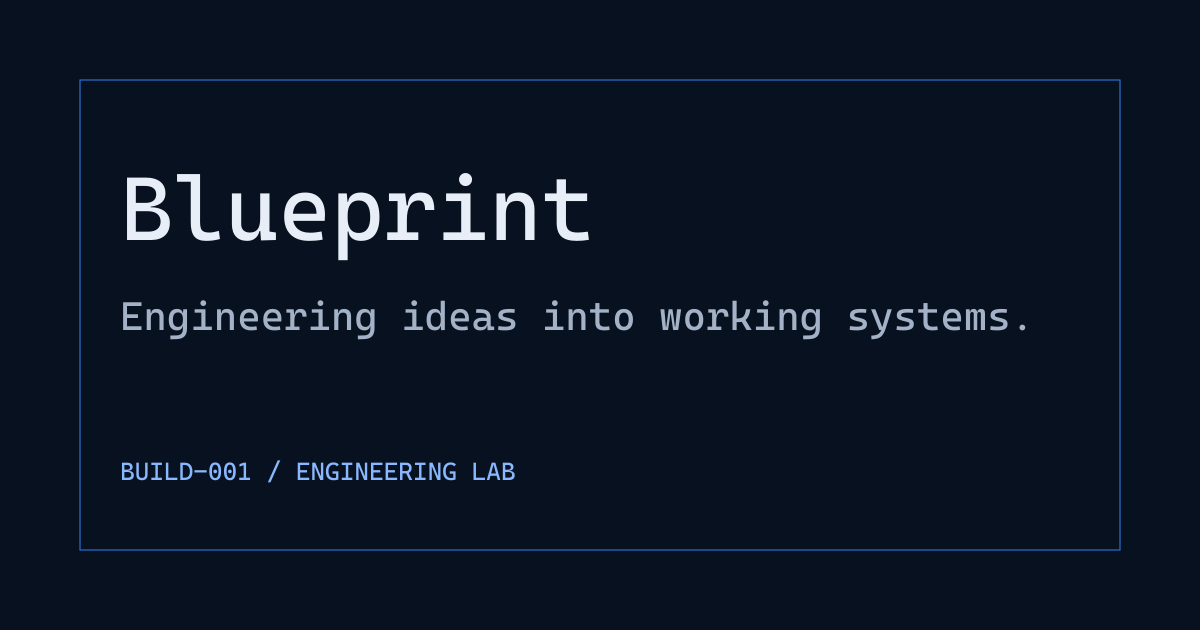
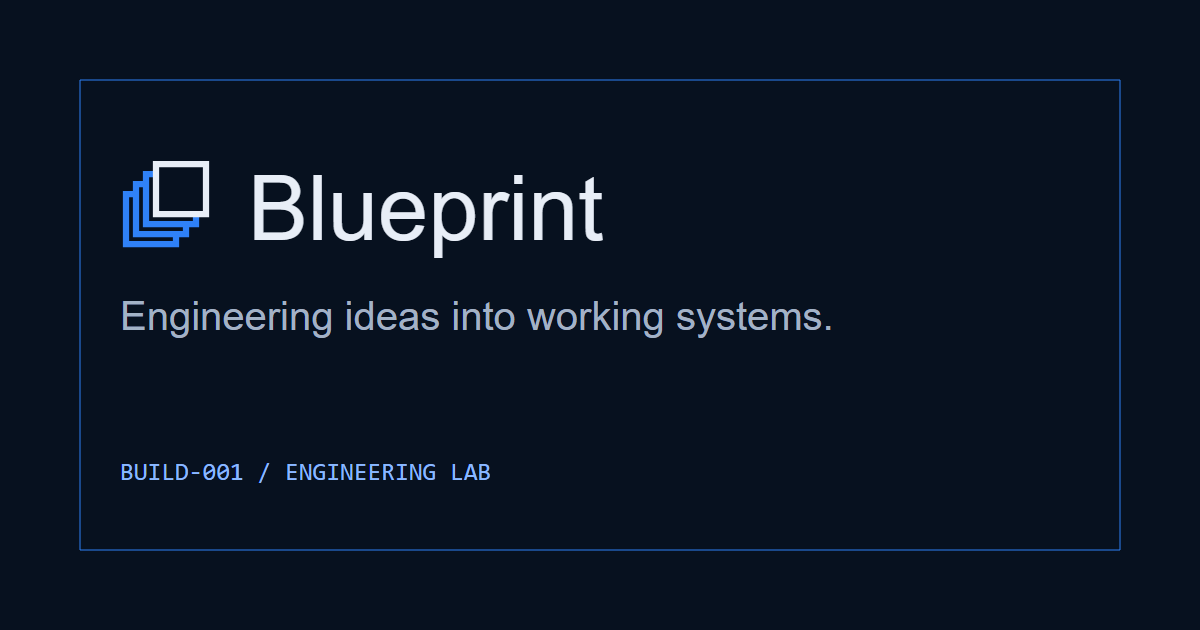
feat: add Blueprint Planes launch branding

Changed region(s): [[0.0925, 0.2413, 0.5242, 0.4222], [0.0925, 0.4825, 0.8633, 0.5429], [0.0925, 0.7238, 0.4317, 0.7841]]

diff --git a/tests/e2e/site.spec.ts b/tests/e2e/site.spec.ts
@@ -22,6 +22,26 @@ test('article language switch preserves equivalent page', async ({page}) => {
   await page.goto('/builds/blueprint'); await page.getByRole('link', {name: 'Change language: Português'}).click();
   await expect(page).toHaveURL(/\/pt\/builds\/blueprint$/);
 });
+
+test('Planes brand and favicon load in both languages and at small sizes', async ({page, request}) => {
+  for (const route of ['/', '/pt']) {
+    await page.goto(route);
+    await expect(page.locator('.brand')).toHaveAccessibleName(/Blueprint/);
+    await expect(page.locator('.brand-mark')).toHaveAttribute('alt', '');
+    await expect(page.locator('link[rel="icon"]')).toHaveAttribute('href', '/icon.svg');
+    expect(await page.locator('.brand-mark').evaluate((img: HTMLImageElement) => img.complete && img.naturalWidth > 0)).toBe(true);
+    await page.goto(`${route === '/' ? '' : route}/builds/blueprint`);
+    await expect(page.locator('.article-heading .status')).toHaveText(route === '/' ? 'Building' : 'Em construção');
+    await expect(page.locator('.prose')).toContainText(route === '/' ? 'Resolution remains pending' : 'A resolução continua pendente');
+    await expect(page.locator('.prose')).toContainText('HTTPS');
+  }
+  const icon = await request.get('/icon.svg');
+  expect(icon.headers()['content-type']).toContain('image/svg+xml');
+  const origin = new URL(page.url()).origin;
+  await page.setContent(`<body style="background:#07111f;color:#e8eef7;font-family:monospace;padding:32px"><h1>Blueprint Planes / icon scale review</h1>${[16,24,32,42,128].map(size => `<div style="display:inline-block;margin:24px"><p>${size}px</p><img src="${origin}/icon.svg" width="${size}" height="${size}" alt="Blueprint Planes at ${size}px"></div>`).join('')}</body>`);
+  await page.locator('img').evaluateAll(async images => { await Promise.all(images.map(img => (img as HTMLImageElement).decode())); });
+  await page.screenshot({path:'test-results/review-icons.png'});
+});
 for (const locale of ['en', 'pt-BR'] as const) {
   test(`planned ClinDevLab build and lifecycle indicators in ${locale}`, async ({page}) => {
     const prefix = locale === 'en' ? '' : '/pt';

diff --git a/src/components/shell.tsx b/src/components/shell.tsx
@@ -1,4 +1,5 @@
 import Link from 'next/link';
+import Image from 'next/image';
 import type { ReactNode } from 'react';
 import { words, pathFor, type Locale } from '@/lib/i18n';
 import { isProduction } from '@/lib/seo';
@@ -12,7 +13,7 @@ export function Shell({ locale, children }: { locale: Locale; children: ReactNod
   return <html lang={locale}><body>
     <a className="skip" href="#main">{w.skip}</a>
     <header className="site-header"><div className="container header-inner">
-      <Link className="brand" href={pathFor(locale)}><span className="brand-mark" aria-hidden="true">B<span>+</span></span><span>Blueprint<span className="brand-caption">{w.lab}</span></span></Link>
+      <Link className="brand" href={pathFor(locale)}><Image className="brand-mark" src="/brand-mark.svg" width={42} height={42} alt="" aria-hidden="true" unoptimized loading="eager" /><span>Blueprint<span className="brand-caption">{w.lab}</span></span></Link>
       <div className="header-controls"><nav aria-label={w.nav}><ul>{(['builds', 'experiments', 'notes', 'about'] as const).map(s => <li key={s}><Link href={pathFor(locale, s)}>{w[s]}</Link></li>)}</ul></nav>
       <LanguageSwitcher locale={locale} availablePaths={availablePaths} label={w.language} missing={w.missing} /></div>
     </div></header>

diff --git a/src/app/globals.css b/src/app/globals.css
@@ -16,8 +16,7 @@ main:focus { outline: none; }
 .site-header { border-bottom: 1px solid var(--line); }
 .header-inner { min-height: 104px; display: flex; align-items: center; justify-content: space-between; gap: 24px; }
 .brand { display: flex; align-items: center; gap: 14px; text-decoration: none; font-size: 1.25rem; font-weight: 700; }
-.brand-mark { width: 42px; height: 42px; border: 1px solid #568acb; display: grid; place-items: center; position: relative; font-family: monospace; }
-.brand-mark span { position: absolute; right: -5px; top: -14px; color: #8ab8ff; }
+.brand-mark { width: 42px; height: 42px; display: block; flex: none; }
 .brand-caption { display: block; color: var(--color-muted); font-size: .625rem; font-weight: 400; letter-spacing: .08em; text-transform: uppercase; }
 nav ul { display: flex; gap: 28px; list-style: none; padding: 0; margin: 0; }
 nav a { display: block; padding-block: 12px; text-decoration: none; font-size: .875rem; }

diff --git a/docs/IMPLEMENTATION.md b/docs/IMPLEMENTATION.md
@@ -58,6 +58,10 @@ Blueprint v1 has human visual review and release approval. The following checks 
 
 The security policy restricts embedding, objects, and base URLs. It does not claim a complete script CSP; nonce-based rendering would add complexity to a static site. No remote content, account system, or form is implemented.
 
+## Final launch editorial update
+
+BUILD-001 remains BUILDING, and the first deployment incident remains pending. After a human verifies the corrected production deployment and blueprint.app.br over HTTPS, make a small follow-up content change in both BUILD-001 files: set status to LIVE, update Current boundary, and record the verified resolution in Engineering Log. Include only observed verification facts; do not invent a timestamp or metrics. Review pt-BR, regenerate sourceRevision, and run the quality gates. Lifecycle rendering already supports LIVE across the home feature, listings, and article; no implementation or deployment configuration change is needed.
+
 ## Release hygiene
 
 Post-build verification uses the Next.js prerender manifest to require all public routes and metadata routes to remain static, reject unpublished route output, and forbid runtime fallback paths. It discovers rendered artifacts recursively under the server build output, matching pages by canonical URL and metadata responses by content rather than guessing filenames. Indexing, exact sitemap URLs, robots, the published-only registry, and source isolation in output file traces remain mandatory. CI also builds with a provider-neutral test adapter to exercise Next.js's alternate output layout. A missing artifact or unsupported manifest fails verification rather than silently skipping a check.

diff --git a/docs/DESIGN-SYSTEM.md b/docs/DESIGN-SYSTEM.md
@@ -43,6 +43,12 @@ Initial color direction, subject to accessibility validation:
 
 These are design direction values, not permission to sacrifice WCAG contrast.
 
+## Blueprint Planes mark
+
+The original vector mark uses four equal construction planes offset along one diagonal: Idea → Specification → Build → Iteration. Three blueprint-blue outlines lead to an ink-colored foreground plane. Square corners and opaque navy surfaces keep the geometry clear at 16 px. The header pairs this decorative mark with the accessible Blueprint / Engineering Lab wordmark.
+
+public/brand-mark.svg contains the 40-unit geometry. The favicon uses the same planes on navy; the social asset scales them beside the wordmark. Keep these SVG representations synchronized and regenerate social.png from social.svg when changing the mark. Use the approved palette without effects or animation.
+
 ## Typography
 
 Favor a highly readable modern sans-serif for primary reading. A restrained mono or technical face may be used for identifiers, metadata, coordinates, or labels.
